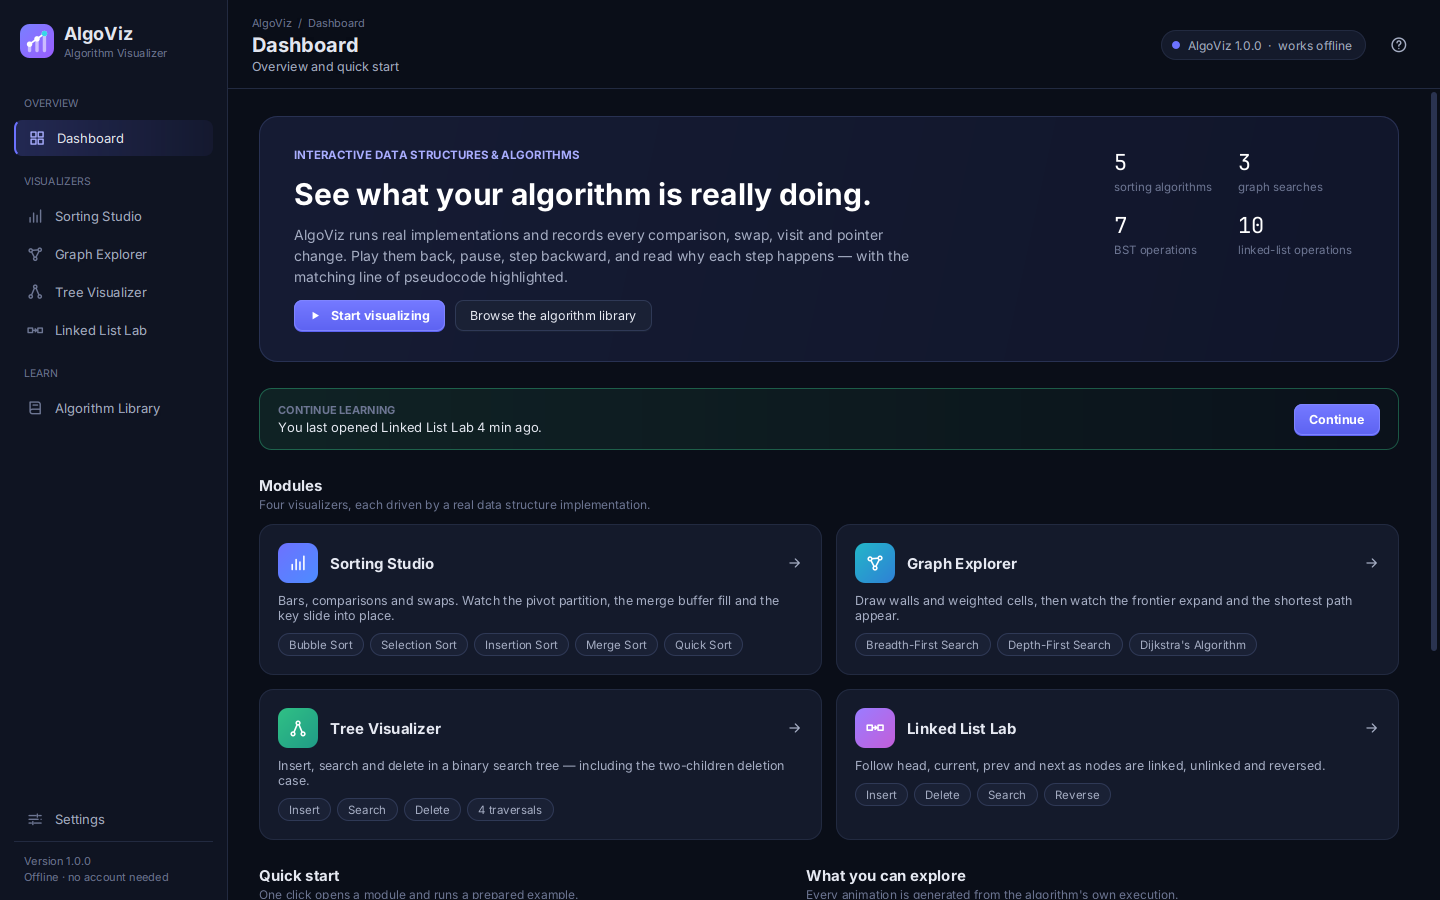
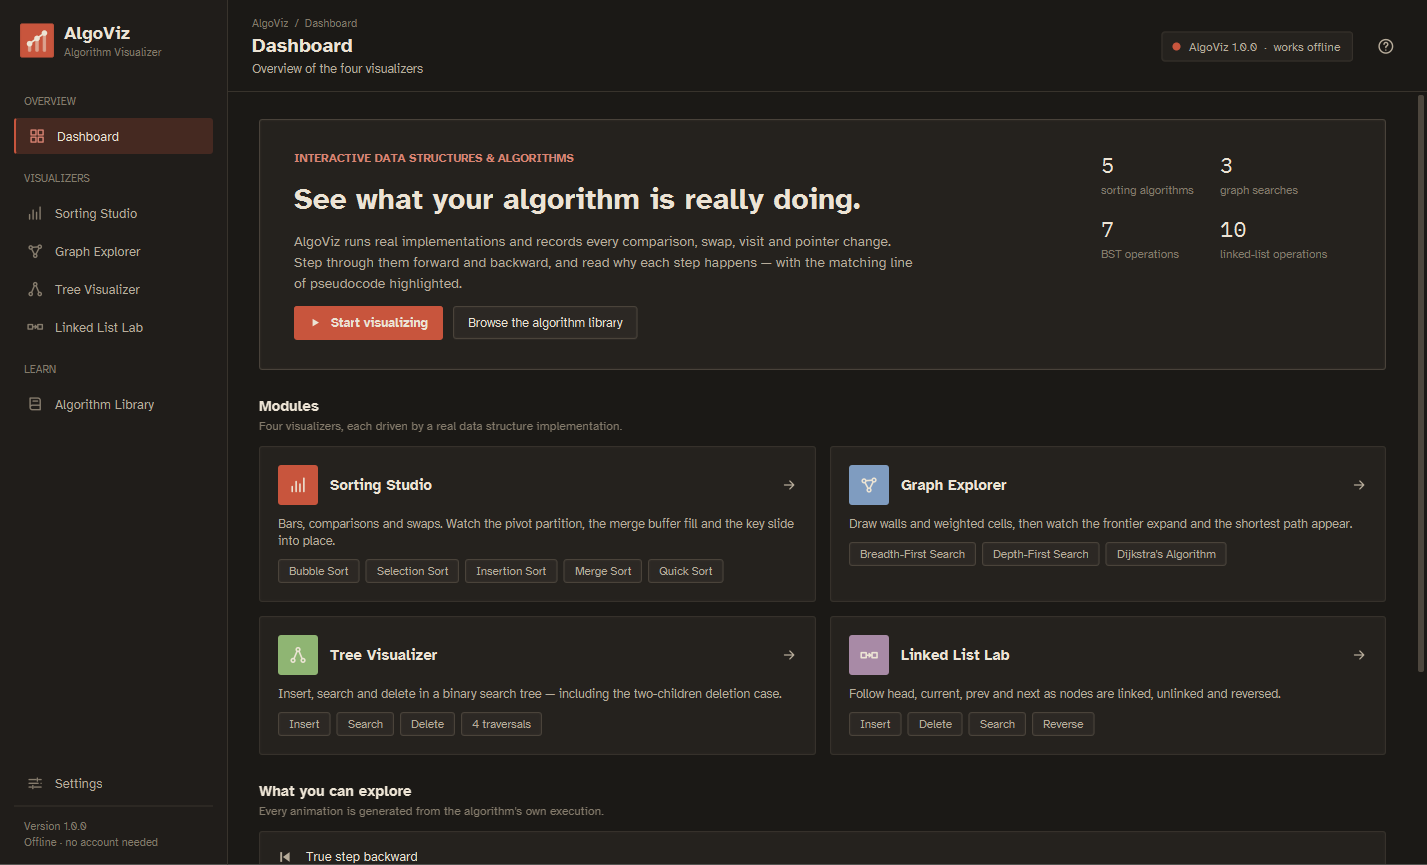
updated readme

diff --git a/README.md b/README.md
@@ -2,8 +2,8 @@
 
 AlgoViz is a JavaFX desktop application that shows how data structures and algorithms execute internally.
 Every animation is generated from a **real, instrumented implementation**: the engine records each comparison,
-swap, visit and pointer change as an immutable snapshot, and the UI plays those snapshots back — forward,
-backward, paused or at any speed — together with the matching pseudocode line and a plain-English explanation.
+swap, visit and pointer change as an immutable snapshot, and the user steps through those snapshots one at a time
+with **Previous** and **Next**, together with the matching pseudocode line and a plain-English explanation.
 
 ![Dashboard](docs/screenshots/dashboard.png)
 
@@ -30,13 +30,26 @@ sequences that are not connected to real code.
 | **Dashboard** | Welcome, entry points to every module, honest summary, *Continue learning* (only if you really opened a module before). |
 | **Sorting Studio** | Bubble, Selection, Insertion, Merge, Quick Sort. Ascending/descending. Size 2–150, patterns (random, nearly sorted, reversed, sorted, few unique), custom input with validation. Merge Sort shows its temporary buffer; Insertion Sort lifts the key out and shows shifts; Quick Sort shows pivot and `i` boundary; Selection Sort shows the current minimum. |
 | **Graph Explorer** | 19 × 35 grid, 4-directional movement. Draw/erase walls and weighted cells (cost 5), move start/target. BFS, DFS, Dijkstra. Frontier, visited, current node, final path, Dijkstra distances, explicit *No path found* state. |
-| **Tree Visualizer** | Standard (unbalanced) BST: insert, search, delete (leaf / one child / two children with inorder successor), inorder, preorder, postorder, level-order, sample tree, clear. Duplicates rejected. |
-| **Linked List Lab** | Singly linked list (head pointer only): insert head/tail/index, delete head/tail/index, search, traverse, reverse, clear. Every pointer assignment is its own step; arrows are drawn from the real `next` pointers so reversal visibly flips them. |
+| **Tree Visualizer** | Standard (unbalanced) BST: insert, search, delete (leaf / one child / two children with inorder successor), inorder, preorder, postorder, level-order, sample tree, clear. Duplicates rejected. Nodes can be dragged (see below). |
+| **Linked List Lab** | Singly linked list (head pointer only): insert head/tail/index, delete head/tail/index, search, traverse, reverse, clear. Every pointer assignment is its own step; arrows are drawn from the real `next` pointers so reversal visibly flips them. Nodes can be dragged. |
 | **Algorithm Library** | Summary, use cases, how it works, pseudocode, best/average/worst complexity, stability, in-place status, operation tables, "Open in visualizer". |
-| **Settings** | Default speed, animate transitions (reduced motion), default array size, start module, Dijkstra distances, clear recent activity, reset. Saved to `~/.algoviz/settings.properties`. |
+| **Settings** | Animate transitions (reduced motion), default array size, start module, Dijkstra distances, clear recent activity, reset. Saved to `~/.algoviz/settings.properties`. |
 
-Shared execution controls in every visualizer: **Previous step and Next step**. There is no automatic playback; the
-user advances every step by hand. Keyboard: `←`, `→`, `Ctrl+1…7`, `F1`.
+**Stepping.** Every visualizer has the same two controls: **Previous** and **Next** (keyboard `←` / `→`). There is
+no automatic playback; each run opens at step 0 and advances only when the user asks, which keeps the pace under the
+learner's control during a demo. Other shortcuts: `Ctrl+1…7` switch module, `F1` opens help.
+
+**Interaction.**
+* *Draggable nodes* (Tree Visualizer, Linked List Lab): grab a node and its neighbours follow through elastic
+  links, nodes push each other apart, and everything springs back to the correct layout on release — the
+  structure on screen is never left in a wrong state (`ui/animation/SpringField`).
+* *Hover feedback*: tree/list nodes grow slightly and their links brighten; buttons lift and press in, sidebar
+  items and library rows slide, dashboard cards rise (`ui/animation/HoverMotion`). Turning off *Animate
+  transitions* stops the control motions.
+
+**Look.** A single dark "ink on paper" theme: warm charcoal surfaces, paper-white text and one brick-red accent,
+flat (no gradients, glows or shadows). Fonts: Atkinson Hyperlegible for the interface — designed for legibility,
+which helps on a projector — and IBM Plex Mono for code, values and counters.
 
 | | |
 |---|---|
@@ -44,12 +57,12 @@ user advances every step by hand. Keyboard: `←`, `→`, `Ctrl+1…7`, `F1`.
 | ![Dijkstra](docs/screenshots/graph-dijkstra.png) | ![Tree traversal](docs/screenshots/tree-traversal.png) |
 | ![Linked list reversal](docs/screenshots/linkedlist-reverse.png) | ![Library](docs/screenshots/library.png) |
 
-*Screenshots were captured from the running application (Xvfb, 1440×900) with the screenshot harness in
+*Screenshots were captured from the running application (Windows, 1440×900) with the screenshot harness in
 `src/test/java/com/algoviz/tools/ScreenshotHarness.java`.*
 
 ## 4. Technology stack
 
-* Java 17+ (built and tested on OpenJDK 21), JavaFX 21.0.5 (controls, FXML), custom CSS
+* Java 17+ (tested on OpenJDK 21 / Linux and Java 27 / Windows 11), JavaFX 21.0.5 (controls, FXML), custom CSS
 * Maven 3.9, JUnit 5
 * Bundled fonts: Atkinson Hyperlegible and IBM Plex Mono (SIL Open Font License, see `src/main/resources/com/algoviz/fonts/`)
 * No database, no network access, no accounts
@@ -61,7 +74,7 @@ flowchart LR
     subgraph UI["JavaFX layer (FX thread only)"]
         FXML["FXML views + CSS"] --> C["Controllers<br/>(MainController, *Controller)"]
         C --> R["Renderers<br/>SortingCanvas, GridCanvas,<br/>TreeCanvas, LinkedListCanvas"]
-        C --> D["FxPlaybackDriver<br/>(Timeline → tick)"]
+        C --> D["FxPlaybackDriver<br/>(Previous / Next → step)"]
         C --> COMP["Components<br/>PlaybackBar, MetricsPanel,<br/>PseudocodePanel, ExplanationCard"]
     end
     subgraph Engine["Engine (no JavaFX imports)"]
@@ -80,8 +93,13 @@ flowchart LR
 
 **Flow of one run:** the controller builds the input → the selected `Algorithm` strategy runs on it (in a
 background `Task` for sorting/graph) and returns an `ExecutionTrace` of immutable steps → the trace is loaded into
-the `PlaybackController` → a JavaFX `Timeline` calls `tick()` → listeners render the current step, update
-pseudocode, explanation and metrics.
+the `PlaybackController` at step 0 → each **Next** / **Previous** moves its cursor one snapshot → listeners render
+that step and update pseudocode, explanation and metrics. (The engine can also auto-play via `tick()`; the UI
+deliberately uses manual stepping only.)
+
+An interactive, source-linked version of this diagram is in
+[`docs/architecture/algoviz-architecture.html`](docs/architecture/algoviz-architecture.html) — open it in a browser
+and click any box to see the exact lines of code behind it.
 
 ## 6. Package structure
 
@@ -99,14 +117,14 @@ src/main/java/com/algoviz/
 ├── service/                                 AlgorithmCatalog (strategy registry + docs), SettingsService (persistence)
 ├── controller/                              MainController, VisualizerController (base), StaticPageController (base),
 │                                            Dashboard/Sorting/Graph/Tree/LinkedList/Library/Settings controllers, AppContext
-├── ui/animation/                            FxPlaybackDriver, Tween, BackgroundRunner
+├── ui/animation/                            FxPlaybackDriver, Tween, BackgroundRunner, SpringField, HoverMotion
 ├── ui/component/                            PlaybackBar, MetricsPanel, PseudocodePanel, ExplanationCard, ComplexityCard,
 │                                            Legend, EmptyState, NotificationCenter, Icons, IconType, BrandMark
 ├── ui/render/                               ResizableCanvas (base) + 4 canvases
 ├── ui/theme/                                Palette, FontLoader
 └── util/                                    ValidationUtils, InvalidInputException, ComplexityUtils
 src/main/resources/com/algoviz/  fxml/ (8 views) · css/ (app, components, modules) · fonts/
-src/test/java/com/algoviz/       engine/ · service/ · util/ · ui/UiSmokeTest · tools/ScreenshotHarness
+src/test/java/com/algoviz/       engine/ · service/ · util/ · ui/UiSmokeTest · ui/animation/SpringFieldTest · tools/ScreenshotHarness
 ```
 
 ## 7. Class responsibilities (key classes)
@@ -117,7 +135,9 @@ src/test/java/com/algoviz/       engine/ · service/ · util/ · ui/UiSmokeTest 
 | `ExecutionTrace<S>` | Ordered, unmodifiable list of steps from one run (+ recording time). |
 | `ExecutionHistory<S>` | Cursor over a trace: forward, backward, seek, rewind. |
 | `PlaybackController<S>` | FX-independent state machine (EMPTY/READY/PLAYING/PAUSED/FINISHED), stopwatch, generation counter, observers. |
-| `FxPlaybackDriver<S>` | Adapts the controller to JavaFX: `Timeline` ticks, observable properties, speed. |
+| `FxPlaybackDriver<S>` | Adapts the controller to JavaFX: step commands, observable properties, change listeners for rendering. |
+| `SpringField` | Spring physics for draggable nodes: each node has a displacement from its layout position, pulled home, along links and away from other nodes. Pure arithmetic, unit-tested without JavaFX. |
+| `HoverMotion` | One scene-wide mouse filter that eases hover/press motion for buttons, sidebar items, cards and rows (JavaFX 21 CSS has no transitions). |
 | `SortRecorder` | Instrumented array — every compare/swap/write goes through it, so counts and highlights are always consistent. |
 | `SortingAlgorithm` | Template method: records initial/final states; subclasses implement `sort()`. |
 | `GraphSearchAlgorithm` | Template: initial state, path reconstruction from parent pointers, "no path" outcome. |
@@ -201,13 +221,14 @@ does **not** self-balance (no AVL in this release).
 
 ## 11. Installation
 
-Requirements: **JDK 17 or newer** and **Maven 3.8+**. JavaFX is downloaded by Maven automatically (it is not part
-of the JDK); the correct native artifacts for Windows, macOS or Linux are selected by the OpenJFX dependencies.
+Requirements: **JDK 17 or newer**. Maven is optional — the bundled Maven Wrapper (`mvnw` / `mvnw.cmd`) downloads
+it. JavaFX is downloaded automatically too (it is not part of the JDK); the correct native artifacts for Windows,
+macOS or Linux are selected by the OpenJFX dependencies.
 
 ```bash
-git clone <repository-url>
+git clone https://github.com/krishavshaurya0303/AlgViz-.git
 cd AlgViz-
-mvn -q compile
+mvnw.cmd -q compile                  # ./mvnw -q compile on macOS/Linux
 ```
 
 ## 12. Running
@@ -216,11 +237,15 @@ mvn -q compile
 (Windows) or run `./run-mac-linux.sh` (macOS/Linux). Maven is not needed: the bundled Maven Wrapper downloads it.
 
 ```bash
-mvn javafx:run                       # recommended
+mvnw.cmd javafx:run                  # Windows, from a terminal (./mvnw javafx:run on macOS/Linux)
+mvn javafx:run                       # if Maven is installed
 # or build a self-contained jar for the current platform:
-mvn package
+mvnw.cmd package
 java -jar target/algoviz-1.0.0-app.jar
 ```
+
+On Java 22+ the terminal prints several `WARNING:` lines about `sun.misc.Unsafe` and native access. They come
+from Maven and JavaFX 21 on newer JDKs and are harmless.
 
 The `-app.jar` contains the JavaFX natives of the platform it was built on (build it on the machine you run it on).
 JavaFX prints a harmless "Unsupported JavaFX configuration: classes were loaded from unnamed module" warning
@@ -229,11 +254,13 @@ when started from the jar.
 ## 13. Tests
 
 ```bash
-mvn test                             # engine, service, util tests (UI test skipped without a display)
+mvnw.cmd test                        # Windows; engine, service, util tests (UI test skipped without DISPLAY)
 xvfb-run -a mvn test                 # Linux headless: also runs the JavaFX UI smoke test
 ```
 
-Latest run (OpenJDK 21, Linux, under Xvfb): **1086 tests, 0 failures, 0 errors, 0 skipped.**
+To include the UI smoke test on Windows, set `DISPLAY` first: in PowerShell `$env:DISPLAY=':0'; .\mvnw.cmd test`.
+
+Latest run (Java 27, Windows 11, with `DISPLAY` set): **1090 tests, 0 failures, 0 errors, 0 skipped.**
 
 | Suite | Tests | What is verified |
 |---|---|---|
@@ -245,6 +272,7 @@ Latest run (OpenJDK 21, Linux, under Xvfb): **1086 tests, 0 failures, 0 errors, 
 | `PlaybackControllerTest` | 15 | Pause stops ticks, resume, finish, replay, step forward/back restore identical snapshots and metrics, repeated round trips, reset clears time, paused time excluded (fake clock), generation invalidation, seek, listeners. |
 | `SettingsServiceTest` | 4 | Defaults, round trip, malformed values, unreadable/unwritable file. |
 | `AlgorithmCatalogTest`, `ValidationUtilsTest` | 5 | Catalog completeness and stability facts; input parsing and range errors. |
+| `SpringFieldTest` | 4 | Dragged node stays under the cursor, neighbours follow less with distance, everything returns home after release, removed nodes are forgotten. |
 | `UiSmokeTest` | 1 | Launches the real app, opens every module, drives Previous/Next stepping via the UI, validates inline errors, runs tree/list/graph operations, fails on any FX-thread exception. |
 
 ## 14. Limitations and future work
@@ -253,7 +281,8 @@ Latest run (OpenJDK 21, Linux, under Xvfb): **1086 tests, 0 failures, 0 errors, 
 * Graph Explorer uses a fixed 19 × 35 grid with one weight value (5); no diagonal movement; no A*.
 * Linked List Lab is limited to 10 nodes and the tree to 63 nodes so every node stays readable.
 * Single dark theme; no sound.
+* Stepping is manual only (no Play button); the engine still supports timed playback if it is ever wanted back.
+* Only tree and list nodes are draggable; sorting bars and grid cells are not.
 * The shaded jar is platform-specific; jlink/jpackage installers are not provided yet.
-* The elapsed time is animation wall-clock time, not an algorithm benchmark (by design).
 
 See `docs/VIVA.md` for viva preparation notes.

diff --git a/docs/VIVA.md b/docs/VIVA.md
@@ -6,12 +6,13 @@ Short, code-referenced answers. File paths are under `src/main/java/com/algoviz/
 JavaFX has a scene graph with hardware-accelerated rendering, CSS styling, FXML for declarative layouts,
 built-in animation (`Timeline`, `AnimationTimer`, transitions) and observable properties/bindings. Swing has none
 of the CSS/FXML separation and needs manual repainting for animation. Our dark theme lives entirely in
-`resources/com/algoviz/css/*.css`, layouts in `resources/com/algoviz/fxml/*.fxml`.
+`resources/com/algoviz/css/*.css` (colours mirrored for canvas drawing in `ui/theme/Palette`), layouts in
+`resources/com/algoviz/fxml/*.fxml`.
 
 ### 2. Why MVC?
 To keep algorithm logic testable and independent from the screen. **Model**: `engine/**`, `model/**`
 (no JavaFX imports). **View**: FXML + CSS + `ui/render` canvases. **Controller**: `controller/*Controller`.
-Because the engine is UI-free, 1085 of the 1086 tests run without starting JavaFX.
+Because the engine is UI-free, 1089 of the 1090 tests run without starting JavaFX (only `UiSmokeTest` needs it).
 
 ### 3. What is the Strategy pattern here?
 `engine/Algorithm.java` is the strategy interface (`run(I input) → ExecutionTrace<S>`). `BubbleSort`,
@@ -35,14 +36,16 @@ held key, a metrics snapshot, the pseudocode line and the explanation. The list 
 
 ### 6. How does Step Backward work?
 Each step is a complete snapshot, and `ExecutionHistory` is just a cursor (`index`) into the trace.
-Step Backward = `cursor--` and render that snapshot — array, highlights **and counters** come back exactly,
+**Previous** = `cursor--` and render that snapshot — array, highlights **and counters** come back exactly,
 because counters are stored per step (`ExecutionMetrics` is immutable). Nothing is "undone" or recomputed, so
 forward/backward any number of times is consistent (`PlaybackControllerTest.repeatedForwardBackwardIsConsistent`).
 Memory is bounded by input limits (≤150 elements, ≤665 grid cells).
 
 ### 7. How is thread safety maintained?
-* All UI updates and all playback state changes happen on the JavaFX Application Thread: `FxPlaybackDriver`
-  uses a `Timeline` whose `KeyFrame` calls `tick()` — no worker thread touches nodes.
+* All UI updates and all playback state changes happen on the JavaFX Application Thread: Previous/Next are
+  button and key handlers, which JavaFX always runs on that thread, and they call `FxPlaybackDriver` directly —
+  no worker thread touches nodes. (The driver also has a `Timeline` for timed playback, which runs on the same
+  thread; the current UI does not use it.)
 * Expensive trace building (sorting, graph) runs in a `javafx.concurrent.Task` on a single daemon thread
   (`ui/animation/BackgroundRunner`). The task works on *copies* (`SortInput` clones the array,
   `GridGraph.copy()`), and its result is delivered on the FX thread only if its ticket is still the newest —
@@ -80,14 +83,28 @@ delete degrade from O(log n) to O(n) (`BinarySearchTreeTest.heightAndDegenerateT
 (AVL, Red-Black) fix this with rotations; AlgoViz deliberately labels its tree as a standard BST.
 
 ### 13. What tests verify correctness?
-1086 JUnit 5 tests (see README §13). Highlights: every sort on 50 inputs × 2 orders vs `Arrays.sort`, plus the
+1090 JUnit 5 tests (see README §13). Highlights: every sort on 50 inputs × 2 orders vs `Arrays.sort`, plus the
 invariant "never marked sorted early"; BFS/Dijkstra optimality vs independent reference implementations on
 random grids; 2000 random BST operations vs `java.util.TreeSet`; linked-list link integrity after every
-operation; playback pause/resume/reset/step consistency with a fake clock; and a UI smoke test that drives the
-real application.
+operation; playback step consistency with a fake clock; spring physics for draggable nodes; and a UI smoke test
+that drives the real application with Previous/Next.
+
+### 14. Why only Previous and Next, no Play button?
+A learner (or an examiner) controls the pace: each step stays on screen with its explanation and pseudocode line
+until they choose to move on, and nothing changes behind their back. The engine still supports timed playback
+(`PlaybackController.play()`/`tick()`, tested in `PlaybackControllerTest`), so this is a UI choice, not a missing
+feature.
+
+### 15. How do the draggable nodes work without breaking the structure?
+`ui/animation/SpringField` never moves a node's *layout* position — it only stores a displacement from it. Each
+frame, three forces act on the displacement: a spring back home, springs along each link towards the neighbours'
+displacement (so a dragged node pulls its neighbours like a rope), and a push away from nodes that come too close;
+damping makes it settle. On release every displacement decays to 0, so the BST stays in sorted order and the list
+in link order. The physics is plain arithmetic and is unit-tested without JavaFX (`SpringFieldTest`).
 
 ### Bonus: how are metrics kept honest?
 Counters are incremented only inside recorders at the moment the operation happens; each `MetricType` has a
-written definition shown as a tooltip. Elapsed time uses `System.nanoTime()` (monotonic) and excludes paused
-time (`engine/Stopwatch`). Complexity cards are titled "Theoretical complexity" and come from documentation,
-not from measurements.
+written definition shown as a tooltip. No timing is shown on screen (the old "Elapsed" counter was removed with the
+Play button, because manual stepping would make it meaningless); the step-recording time under the sorting chart is
+labelled "not a performance benchmark". Complexity cards are titled "Theoretical complexity" and come from
+documentation, not from measurements.

diff --git a/CLAUDE.md b/CLAUDE.md
@@ -31,7 +31,7 @@ mvnw.cmd test                    # run all tests (the UI smoke test is skipped w
 mvnw.cmd package                 # also builds target/algoviz-1.0.0-app.jar (platform-specific fat jar)
 ```
 On Linux a headless UI test run is `xvfb-run -a mvn test`.
-Last verified result: **1086 tests, 0 failures**. Confirmed on Linux/JDK 21 and on Windows/Java 27 (2026-10-27: 1086 run, 0 failures, 1 skipped = `UiSmokeTest`, no DISPLAY). The stack trace printed during `SettingsServiceTest` is the intentional "Could not read settings" path, not a failure.
+Last verified result: **1090 tests, 0 failures, 0 skipped** (Windows/Java 27 with `$env:DISPLAY=':0'`, 2026-10-28). The stack trace printed during `SettingsServiceTest` is the intentional "Could not read settings" path, not a failure.
 
 ## Architecture (where things are)
 `src/main/java/com/algoviz/`
@@ -66,6 +66,8 @@ Last verified result: **1086 tests, 0 failures**. Confirmed on Linux/JDK 21 and 
   - `FxPlaybackDriver`: a Timeline calls `tick()` and the speed sets the Timeline rate.
   - `Tween`: AnimationTimer-based easing.
   - `BackgroundRunner`: JavaFX Task plus a ticket so only the newest result is delivered.
+  - `SpringField`: spring physics for draggable tree/list nodes (displacement from layout home; home, link and repulsion forces; tested in `SpringFieldTest`). `ResizableCanvas.enableDragging` wires the mouse; canvases call `beginHomes`/`rememberHome` each frame and read `hoverOf(id)` for hover effects.
+  - `HoverMotion`: scene-wide mouse filter easing translate/scale for `.button`, `.toggle-button`, `.nav-item`, `.module-card`, `.library-item`. Disabled when Settings → Animate transitions is off.
 - `ui/render/`: `ResizableCanvas` base plus `SortingCanvas`, `GridCanvas`, `TreeCanvas` (x = inorder rank, y = depth), `LinkedListCanvas`.
 - `ui/component/`: `PlaybackBar`, `MetricsPanel`, `PseudocodePanel`, `ExplanationCard`, `ComplexityCard`, `Legend`, `EmptyState`, `NotificationCenter`, `Icons`/`IconType` (custom SVG paths), `BrandMark`.
 - `ui/theme/`: `Palette` (mirrors the CSS tokens), `FontLoader` (bundled Atkinson Hyperlegible and IBM Plex Mono, both OFL).
@@ -83,12 +85,14 @@ Last verified result: **1086 tests, 0 failures**. Confirmed on Linux/JDK 21 and 
 - **All UI and playback changes happen on the FX thread.** Heavy trace building (sorting, graph) runs in a background Task on copies of the input. Stale results are dropped via tickets.
 - **Honest metrics.**
   - Writes count array assignments; a swap counts as 2 writes. Insertion shifts and merge copies count as writes, never swaps.
-  - Elapsed time is playback wall-clock time, not a benchmark.
+  - No elapsed-time tile any more (removed with Play); the sorting build note says "not a performance benchmark".
   - Complexity cards are labelled "theoretical".
 - **Never mark an element sorted early.** A test enforces this for every step of every sort.
 - **BST does not self-balance**, and the app says so. AVL was deliberately not built.
 - **Input limits**: sort 2–150 values in the range −999..999; tree ≤ 63 nodes; list ≤ 10 nodes.
 - Single dark theme and no sound, so neither has a setting (this is stated in the Settings screen).
+- **Look = "ink on dark paper"** (chosen 2026-10-28 because the owner wants it to not look AI-made): warm charcoal, paper-white text, one brick-red accent (`-av-indigo` / `Palette.INDIGO` keep their old names but now hold brick red). No gradients, glows, drop shadows or pill shapes; corners 2–3px. Fonts: Atkinson Hyperlegible (UI) + IBM Plex Mono (code), OFL, licence files next to the fonts.
+- Dragged nodes always spring back home on release, so the drawn BST/list is never left in a wrong layout.
 
 ## Bugs found and fixed during the build (don't reintroduce)
 - `Timeline.playFromStart()` writes `rate`, so the ticker's rate must NOT be bound. A listener on speed sets it instead.
@@ -110,6 +114,13 @@ Last verified result: **1086 tests, 0 failures**. Confirmed on Linux/JDK 21 and 
 5. Added the Maven Wrapper (`mvnw`, `mvnw.cmd`, `.mvn/`) and launchers (`run-windows.bat`, `run-mac-linux.sh`). Sent `AlgoViz.zip`. User unzipped it to `Documents\AlgoViz` on Windows and the app opened (Java 27).
 6. User is moving to a local session on the laptop. This file was written as the handoff.
 7. Local session (2026-10-27): ran the suite on Windows/Java 27 (all pass). winget is broken on the laptop, so Git for Windows 2.56.0.4 was installed from the official GitHub release. The working copy was attached to the remote with `git init` + fetch + `git reset origin/<branch>`.
+8. 2026-10-27/28, same local session:
+   - Playback reduced to Previous/Next (Play, speed, reset, end, seek, Elapsed tile and default-speed setting removed).
+   - Linked List Lab: complexity and "Pointers in a nutshell" cards removed; null-pointer badges moved above the head box.
+   - Node 24 + Archify skill installed; interactive architecture diagram in `docs/architecture/` (source `candidate.json`, rebuild with Archify `finalize`).
+   - Dark paper theme; draggable spring-physics nodes; Atkinson Hyperlegible + IBM Plex Mono; hover animations; dashboard Quick start (and the "demo" navigation action) removed.
+   - README, VIVA.md and screenshots refreshed.
+   - Owner learned the Git loop and pushed `bb856f3` and `c88684b` himself.
 
 ## Known limitations / possible next work
 - AVL (or Red-Black) tree with rotation animation.
